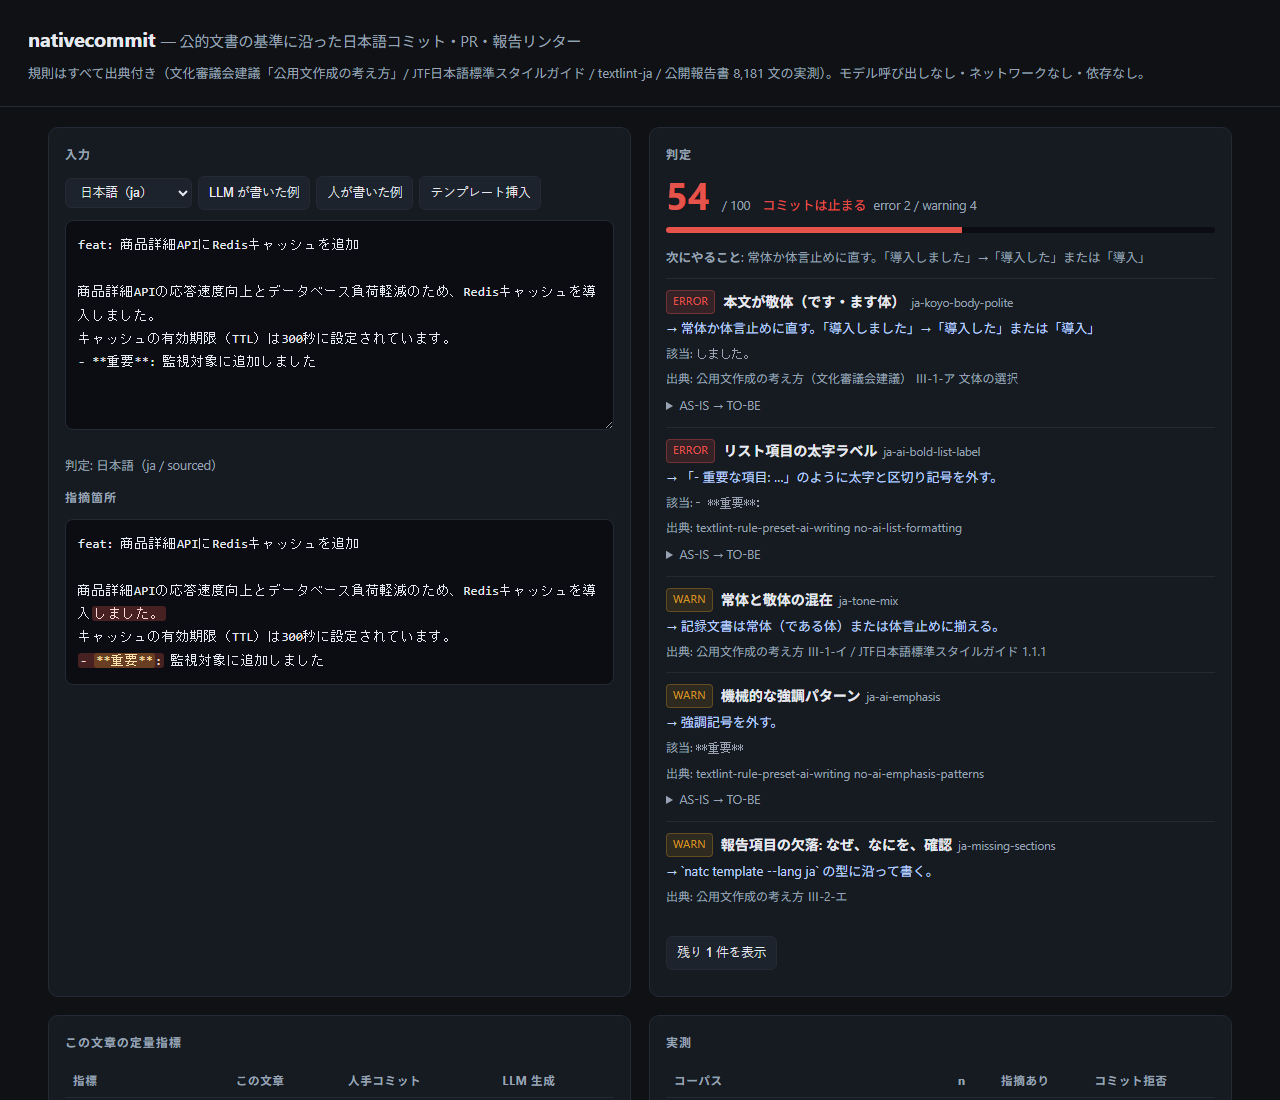
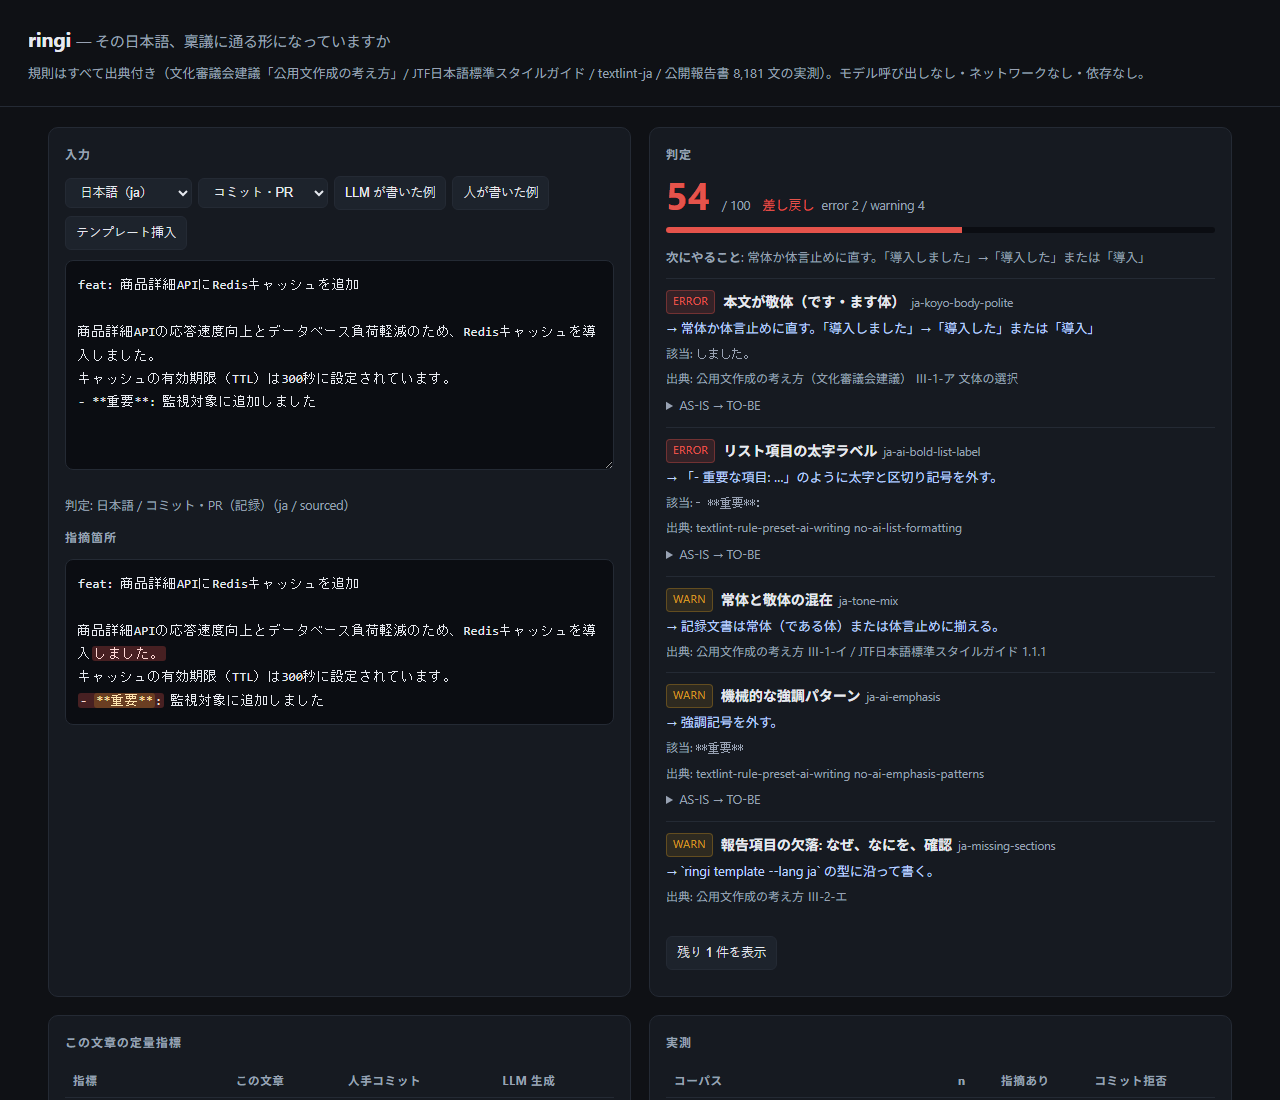
fix: デモの判定文言をプロファイル中立に変更
なぜ: 対顧客・エージェントの判定にも「コミットは止まる」と出ていた
なにを: 判定表示を通過・差し戻しに変更。報告書プロファイル用の例文も追加
確認: playwright で4プロファイル検証、コンソールエラー0

diff --git a/web/index.html b/web/index.html
@@ -143,15 +143,16 @@ const EN_LABELS = {
 const SAMPLES = {
   ja:{ai:"feat: 商品詳細APIにRedisキャッシュを追加\n\n商品詳細APIの応答速度向上とデータベース負荷軽減のため、Redisキャッシュを導入しました。\nキャッシュの有効期限（TTL）は300秒に設定されています。\n- **重要**: 監視対象に追加しました",
       human:"fix: 商品詳細APIにRedisキャッシュを追加\n\nなぜ: 商品詳細APIの応答が遅く、DB負荷も高い\nなにを: Redis を前段に追加。TTL 300秒\n確認: p95 820ms → 210ms"},
-  jaReport:{ai:"件名: キャッシュ改善の件
+  jaReport:{
+    ai:`件名: キャッシュ改善の件
 
-本日、キャッシュ機構の全面刷新を行いました。これにより、応答速度が大幅に改善されたと考えております。",
-           human:"件名: 商品詳細APIの応答改善について（報告）
+本日、キャッシュ機構の全面刷新を行いました。これにより、応答速度が大幅に改善されたと考えております。`,
+    human:`件名: 商品詳細APIの応答改善について（報告）
 
 1 概要  Redis 追加により p95 応答を短縮
 2 対応  Redis を前段に追加。TTL 300秒
 3 結果  p95 820ms → 210ms
-以上"},
+以上`},
   ko:{ai:"feat: 개선\n\n다음과 같습니다. 성능이 매우 개선된 것 같습니다.\n함께 살펴보겠습니다.",
       human:"fix: 결제 재시도 상한 3회로 변경\n\n왜: 재시도가 무한 반복되어 큐가 밀림\n무엇: retry_max 를 3 으로 고정\n확인: 부하 테스트 1시간, 큐 적체 0"},
   zh:{ai:"feat: 优化\n\n首先，本次改动显著提升了性能。其次，代码可读性也得到了改善。\n希望本次变更对您有所帮助。",
@@ -302,7 +303,7 @@ function render(){
   $("#bar").style.width = r.score + "%";
   $("#bar").style.background = col;
   $("#verdict").innerHTML = r.lang ? (r.passed
-      ? "<span style='color:var(--ok)'>フックを通過</span>" : "<span style='color:var(--err)'>コミットは止まる</span>")
+      ? "<span style='color:var(--ok)'>通過</span>" : "<span style='color:var(--err)'>差し戻し</span>")
       + " &nbsp;<span class='note'>error " + r.errors + " / warning " + r.warns + "</span>" : "";
   $("#next").innerHTML = r.findings.length ? ("<b>次にやること</b>: " + esc(r.findings[0].fix || r.findings[0].title)) : "";
 
@@ -373,7 +374,8 @@ async function boot(){
   }
   document.querySelectorAll("[data-sample]").forEach(b => b.onclick = () => {
     const lang = $("#lang").value || "ja";
-    $("#src").value = SAMPLES[lang][b.dataset.sample];
+    const key = (lang === "ja" && $("#profile").value === "report") ? "jaReport" : lang;
+    $("#src").value = SAMPLES[key][b.dataset.sample];
     SHOW_ALL = false; render();
   });
   $("#tpl").onclick = () => { $("#src").value = PACKS[$("#lang").value || "ja"].template.commit; render(); };
